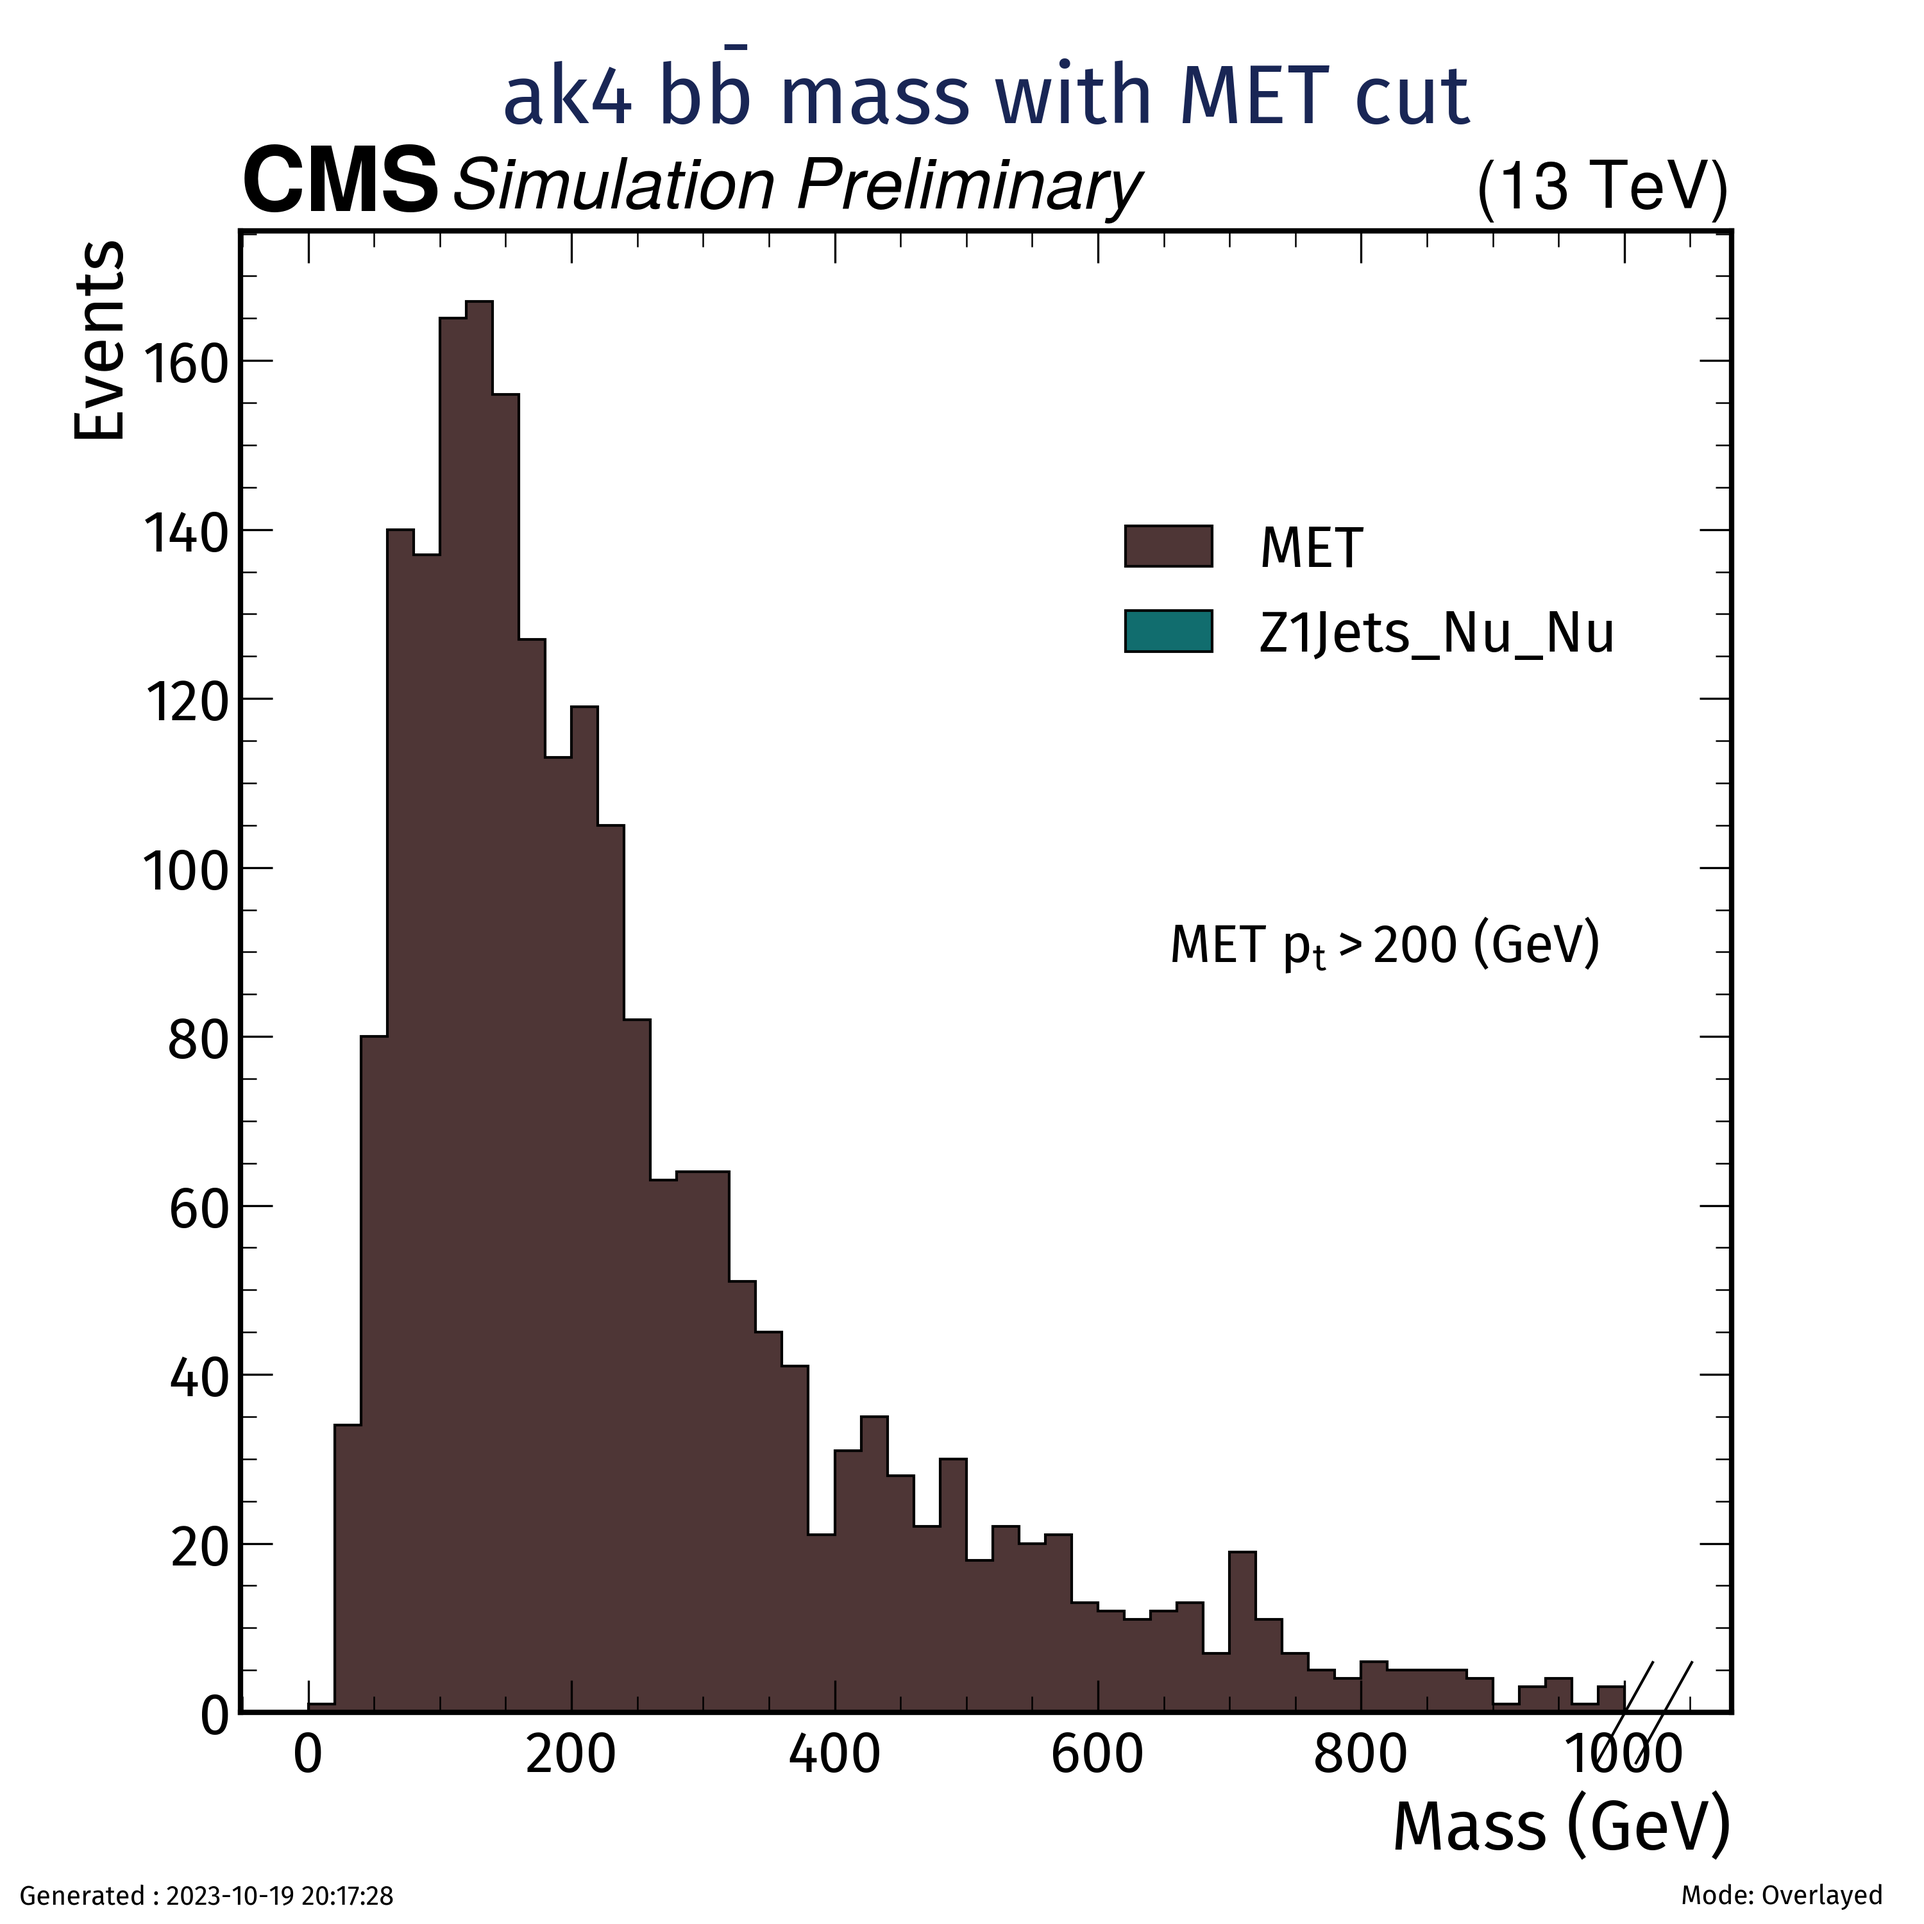
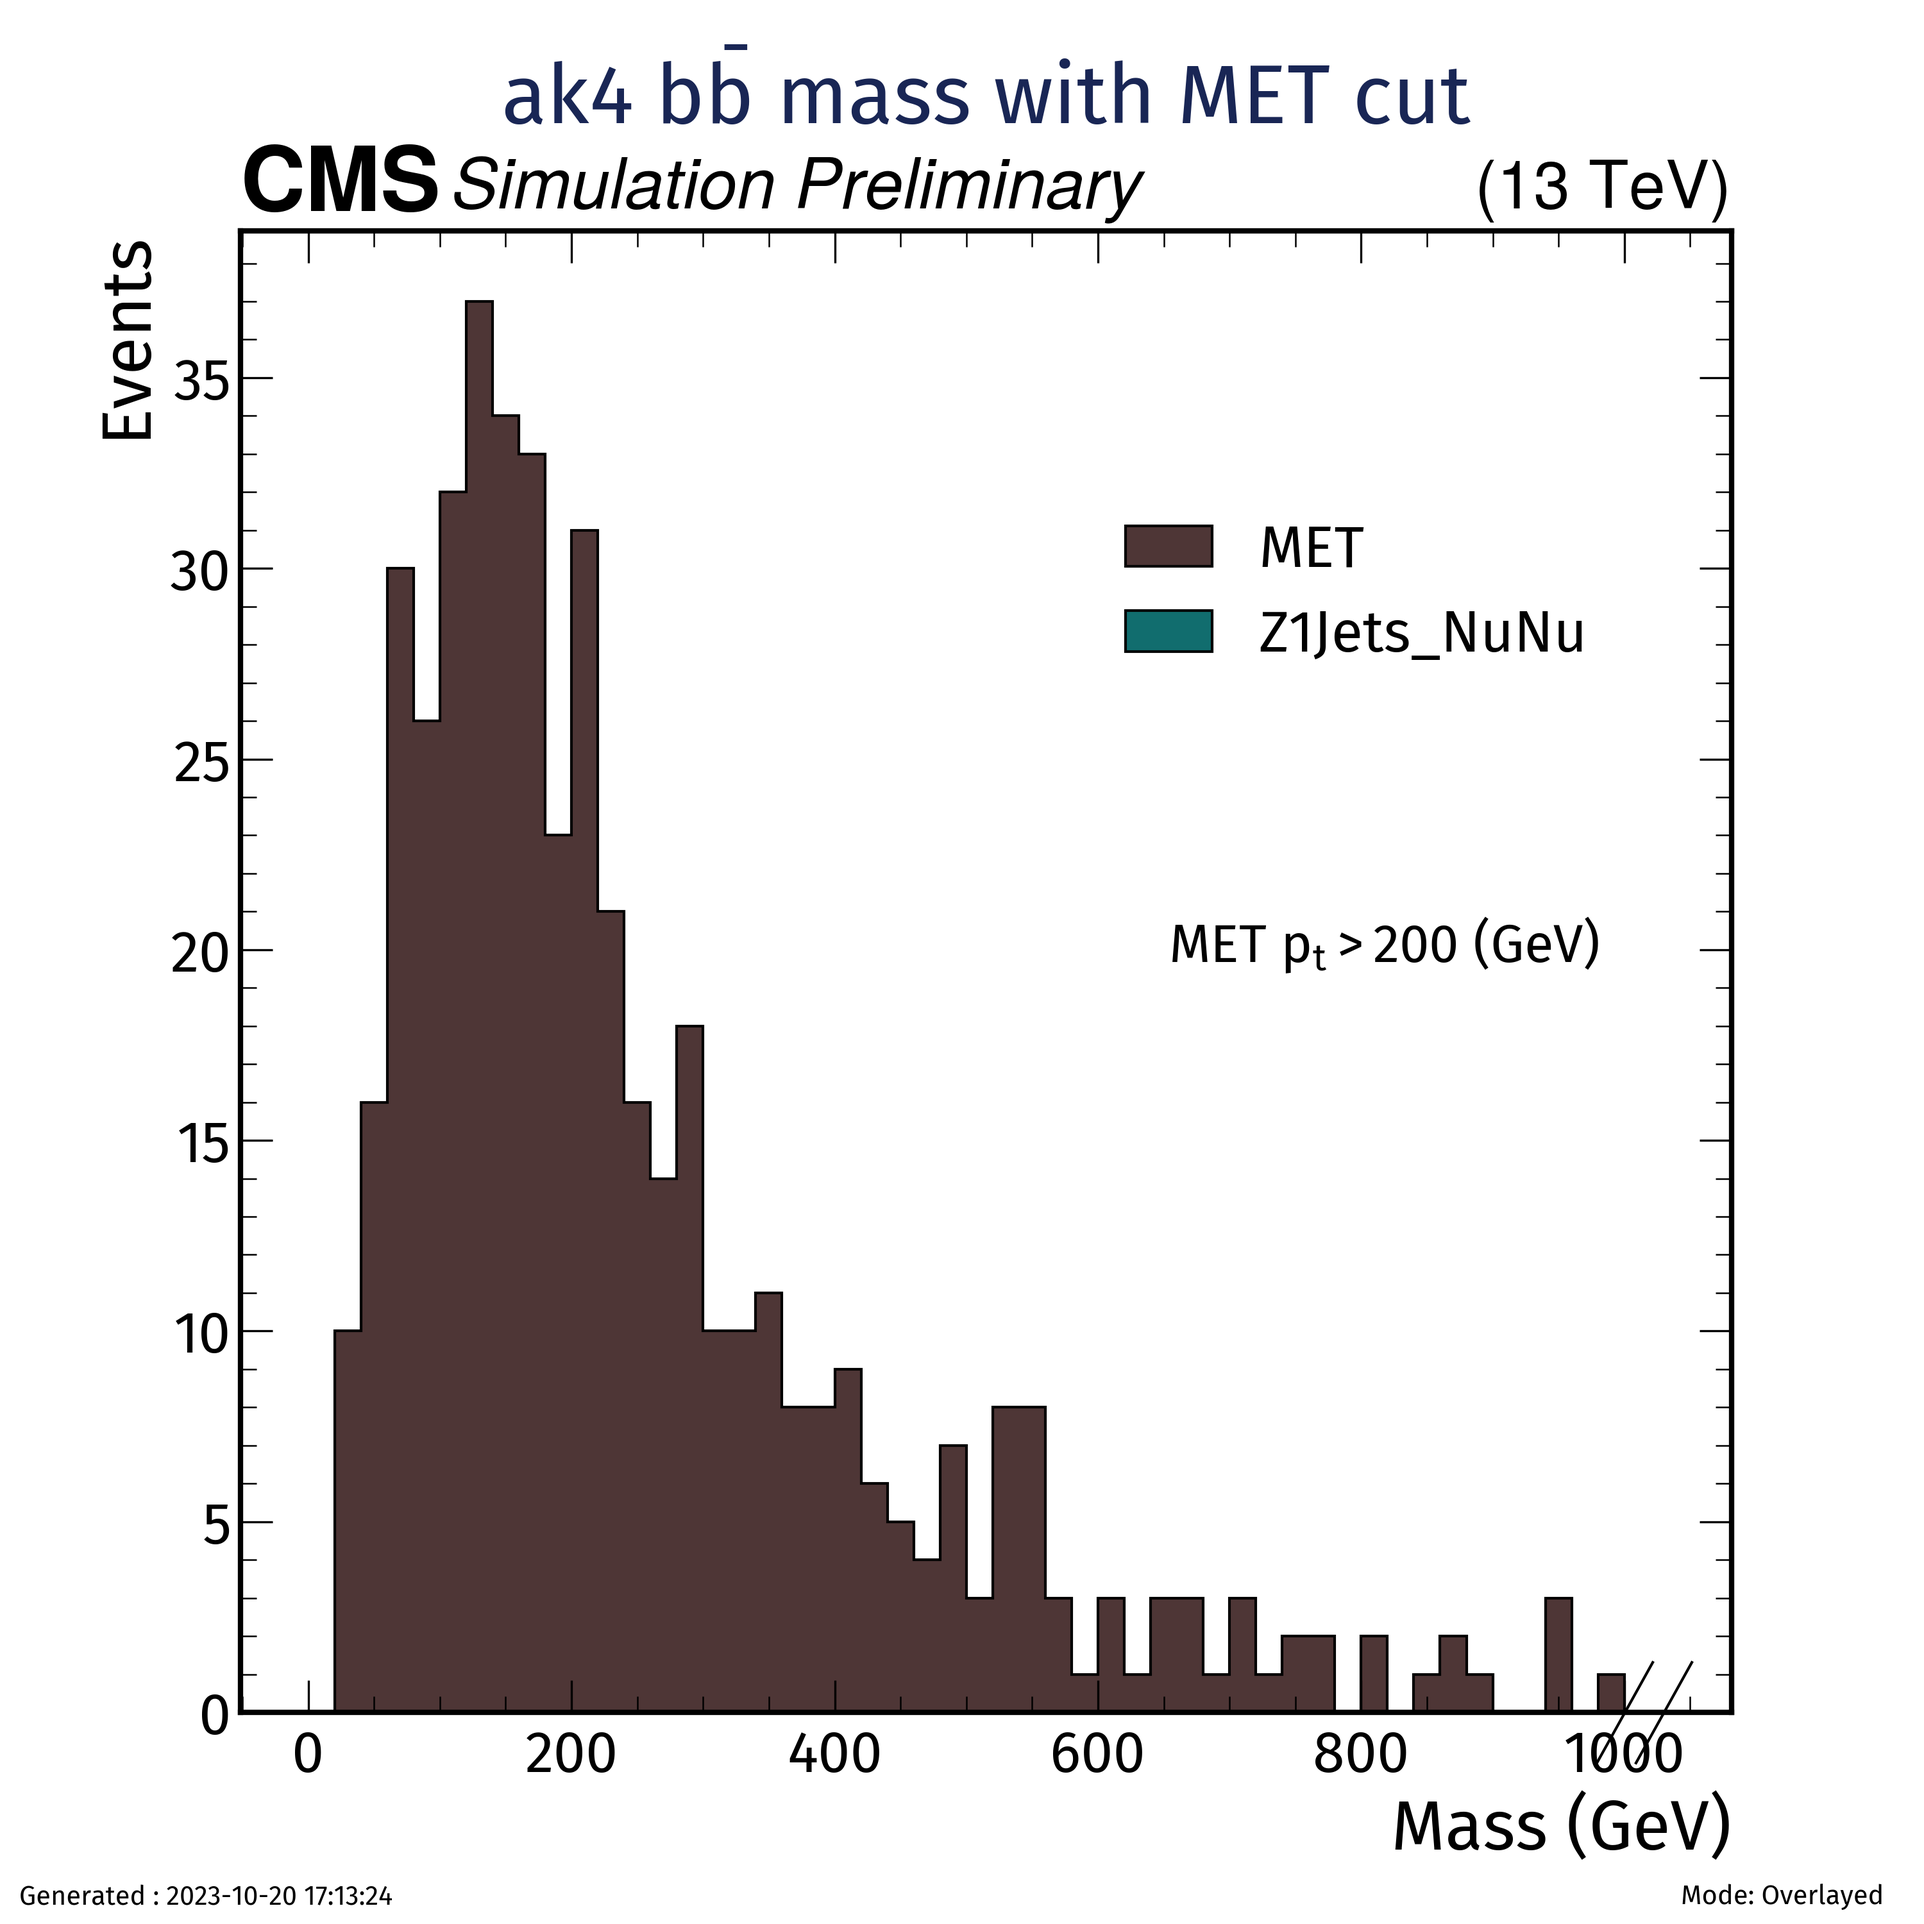
Automated Commit

diff --git a/Backgrounds/plotter_Zjetsnunu.py b/Backgrounds/plotter_Zjetsnunu.py
@@ -11,7 +11,7 @@ This script studies the Z--> \nu + \nu + jets background .
 #################################
 
 import awkward as ak 
-from coffea import util
+from coffea import util, processor
 import matplotlib.pyplot as plt
 import mplhep as hep
 from monoHbbtools.Utilities import get_timestamp
@@ -23,8 +23,7 @@ hep.style.use(["CMS","fira","firamath"])
 import rich
 
 #Load the output
-def showinfo(filename):
-    Output = util.load(filename)
+def showinfo(Output):
     for key in Output.keys():
         cutflow = Output[key]["Cutflow"]
         rich.print(cutflow)
@@ -38,8 +37,7 @@ def get_plotting_essentials(Output, histogram_key) :
     color_list = color_list[:len(sorted_hists)]
     return sorted_hists, sorted_labels, color_list 
 
-def plot(filename):
-    Output = util.load(filename)
+def plot(Output):
 
     #Dijet mass plot
     for key in Output.keys() :
@@ -66,8 +64,7 @@ def plot(filename):
         print(plotname , f" created at {os.getcwd()}")
 
 
-def combined_plot(filename):
-    Output = util.load(filename)
+def combined_plot(Output):
 
     #Dijet mass plot
    
@@ -116,9 +113,10 @@ def combined_plot(filename):
     fig.savefig(plotname, dpi=300)
     print(plotname , f" created at {os.getcwd()}")
 
-filenames = ["Zjetsnunu.coffea"]
-for file in filenames:
-    if file in os.listdir():
-        showinfo(file)
-        plot(file)
-        combined_plot(file)
+MET = util.load("Zjetsnunu_MET.coffea")
+Znunu = util.load("Zjetsnunu_Z1Jets_NuNu.coffea")
+master_dict = processor.accumulate([MET,Znunu])
+util.save(master_dict, "BackgroundDijets.coffea")
+showinfo(master_dict)
+plot(master_dict)
+combined_plot(master_dict)
